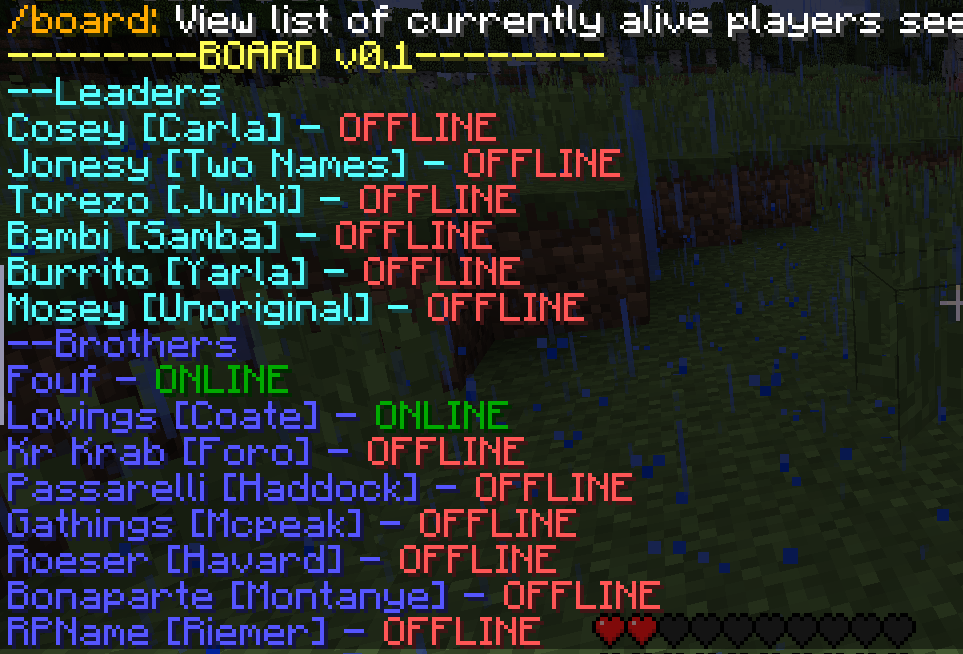
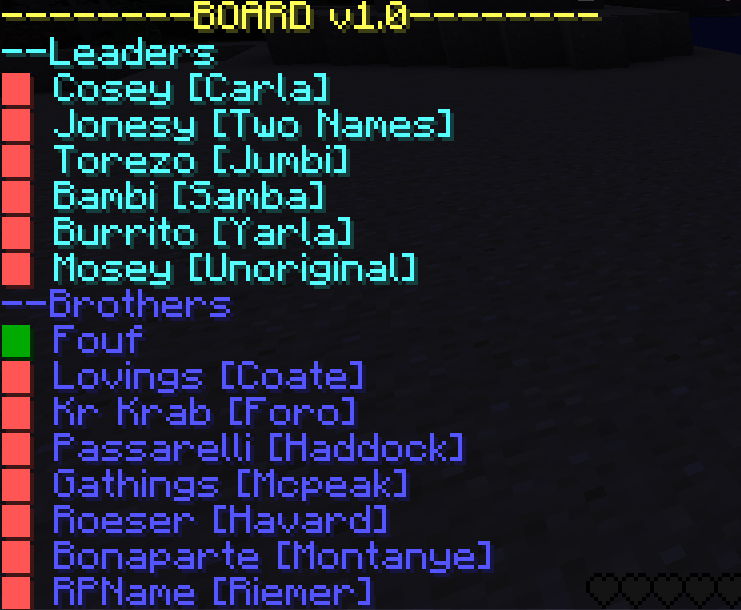
board: update online status from text to symbol add click event to send online player a bird update example images update bin

diff --git a/src/main/java/com/foufys/Board.java b/src/main/java/com/foufys/Board.java
@@ -1,5 +1,9 @@
 package com.foufys;
 
+import net.md_5.bungee.api.chat.ClickEvent;
+import net.md_5.bungee.api.chat.ComponentBuilder;
+import net.md_5.bungee.api.chat.HoverEvent;
+import net.md_5.bungee.api.chat.TextComponent;
 import org.bukkit.Bukkit;
 import org.bukkit.ChatColor;
 import org.bukkit.command.Command;
@@ -11,11 +15,11 @@ import java.util.logging.Level;
 
 public final class Board extends JavaPlugin {
 
-    public ChatColor LORD_COLOR = ChatColor.DARK_RED;
-    public ChatColor LEADERS_COLOR = ChatColor.AQUA;
-    public ChatColor BROTHERS_COLOR = ChatColor.BLUE;
-    public ChatColor ACOLYTES_COLOR = ChatColor.GREEN;
-    public ChatColor SERFS_COLOR = ChatColor.GRAY;
+    public net.md_5.bungee.api.ChatColor LORD_COLOR = net.md_5.bungee.api.ChatColor.DARK_RED;
+    public net.md_5.bungee.api.ChatColor LEADERS_COLOR = net.md_5.bungee.api.ChatColor.AQUA;
+    public net.md_5.bungee.api.ChatColor BROTHERS_COLOR = net.md_5.bungee.api.ChatColor.BLUE;
+    public net.md_5.bungee.api.ChatColor ACOLYTES_COLOR = net.md_5.bungee.api.ChatColor.GREEN;
+    public net.md_5.bungee.api.ChatColor SERFS_COLOR = net.md_5.bungee.api.ChatColor.GRAY;
 
     private BoardData boardData;
 
@@ -40,7 +44,7 @@ public final class Board extends JavaPlugin {
                 Player player = (Player) sender;
                 player.sendMessage(ChatColor.YELLOW + "--------BOARD v" + getDescription().getVersion() + "--------");
                 String currentTeam = "";
-                ChatColor teamColor = ChatColor.WHITE;
+                net.md_5.bungee.api.ChatColor teamColor = net.md_5.bungee.api.ChatColor.WHITE;
                 for (BoardData.AlivePlayer alivePlayer : boardData.GetAlivePlayers()) {
                     if (alivePlayer == null || alivePlayer.PlayerName == null) {
                         continue;
@@ -60,8 +64,17 @@ public final class Board extends JavaPlugin {
                     if (alivePlayer.RPName != null && !alivePlayer.RPName.equals("") && !alivePlayer.RPName.equals("NONE")) {
                         name = alivePlayer.RPName + " [" + alivePlayer.PlayerName + "]";
                     }
+                    TextComponent onlineIndicator = new TextComponent("█");
+                    onlineIndicator.setColor(onlineStatus == null ? net.md_5.bungee.api.ChatColor.RED : net.md_5.bungee.api.ChatColor.DARK_GREEN);
+                    if (onlineStatus != null) {
+                        onlineIndicator.setClickEvent(new ClickEvent(ClickEvent.Action.SUGGEST_COMMAND, "/bird " + alivePlayer.PlayerName));
+                        onlineIndicator.setHoverEvent(new HoverEvent( HoverEvent.Action.SHOW_TEXT, new ComponentBuilder( "Click to send a bird" ).create()));
+                    }
+                    TextComponent playerName = new TextComponent(name);
+                    playerName.setColor(teamColor);
+                    onlineIndicator.addExtra(playerName);
 
-                    player.sendMessage(teamColor + name + " - " + (onlineStatus == null ? ChatColor.RED + "OFFLINE" : ChatColor.DARK_GREEN + "ONLINE"));
+                    player.spigot().sendMessage(onlineIndicator);
                 }
                 player.sendMessage(ChatColor.YELLOW + "--------" + boardData.GetAlivePlayers().size() + " tracked alive players --------");
             }
@@ -70,7 +83,7 @@ public final class Board extends JavaPlugin {
         return false;
     }
 
-    public ChatColor getTeamColor(String teamName) {
+    public net.md_5.bungee.api.ChatColor getTeamColor(String teamName) {
         switch (teamName) {
             case "Lords":
                 return LORD_COLOR;
@@ -83,7 +96,7 @@ public final class Board extends JavaPlugin {
             case "Serfs":
                 return SERFS_COLOR;
             default:
-                return ChatColor.GRAY;
+                return net.md_5.bungee.api.ChatColor.GRAY;
         }
     }
 }
